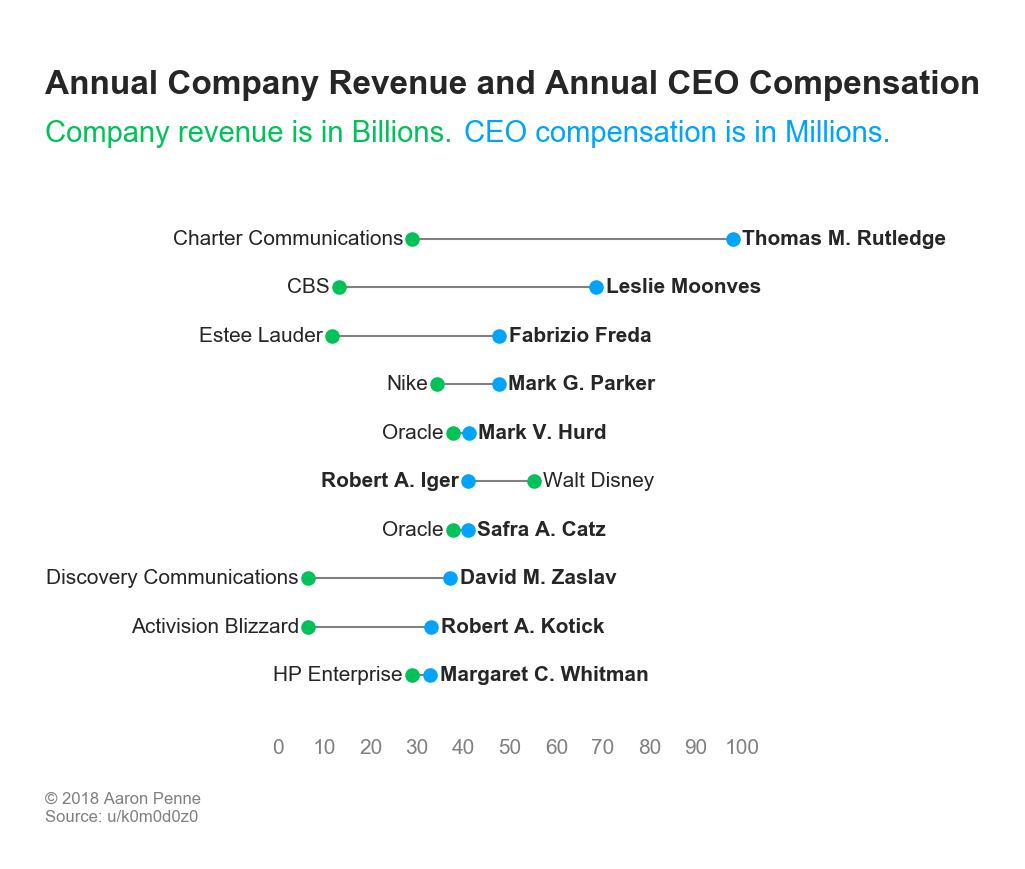
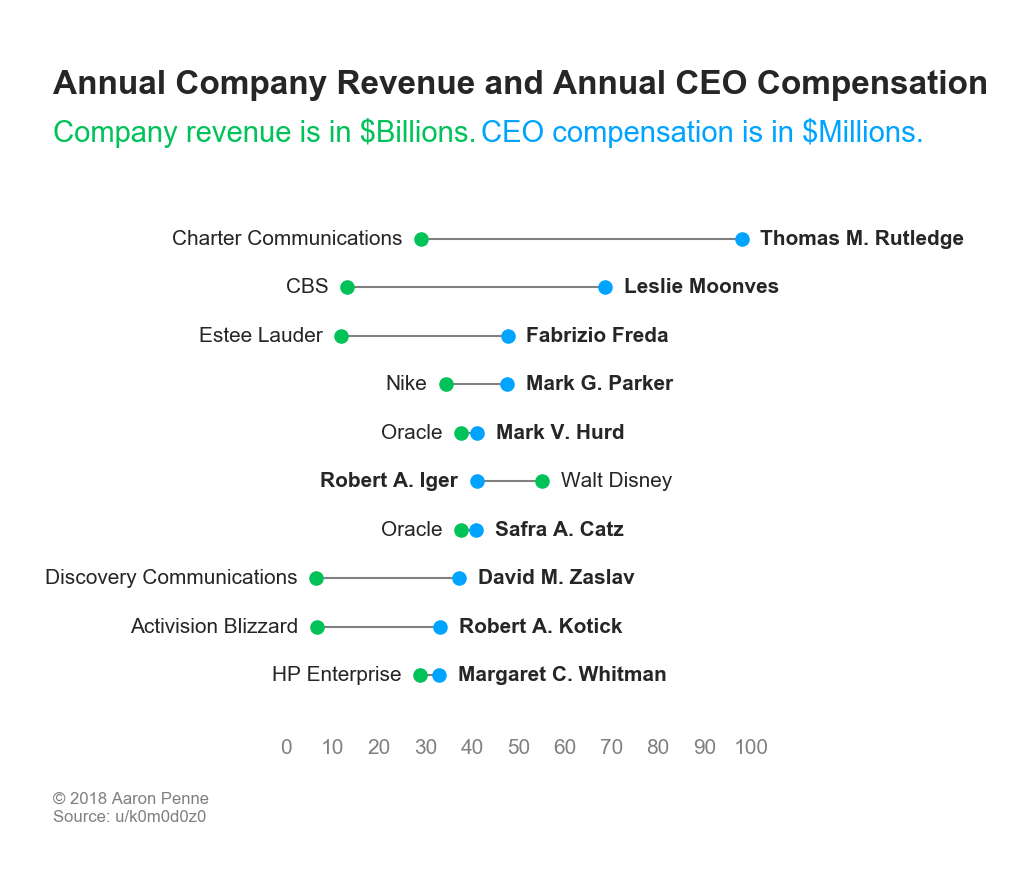
Changed label spacing.

diff --git a/ceo_compensation/dot_pairs_ceo_compensation.py b/ceo_compensation/dot_pairs_ceo_compensation.py
@@ -41,11 +41,11 @@ for i in df.index:
              linestyle='-',
              linewidth=1)
     if x[0] > x[1]:
-        plt.text(x[0]+2, y[0], df.loc[i, 'ceo'], horizontalalignment='left', verticalalignment='center', weight='bold')
-        plt.text(x[1]-2, y[1], df.loc[i, 'company'], horizontalalignment='right', verticalalignment='center')
+        plt.text(x[0]+4, y[0], df.loc[i, 'ceo'], horizontalalignment='left', verticalalignment='center', weight='bold')
+        plt.text(x[1]-4, y[1], df.loc[i, 'company'], horizontalalignment='right', verticalalignment='center')
     else:
-        plt.text(x[0]-2, y[0], df.loc[i, 'ceo'], horizontalalignment='right', verticalalignment='center', weight='bold')
-        plt.text(x[1]+2, y[1], df.loc[i, 'company'], horizontalalignment='left', verticalalignment='center')
+        plt.text(x[0]-4, y[0], df.loc[i, 'ceo'], horizontalalignment='right', verticalalignment='center', weight='bold')
+        plt.text(x[1]+4, y[1], df.loc[i, 'company'], horizontalalignment='left', verticalalignment='center')
     
 # Plot revenue
 x = df.loc[:,'annual_compensation']
@@ -80,11 +80,11 @@ plt.text(-50, 12, 'Annual Company Revenue and Annual CEO Compensation',
          horizontalalignment='left',
          size=16,
          weight='bold')
-plt.text(-50, 11, 'Company revenue is in Billions.',
+plt.text(-50, 11, 'Company revenue is in $Billions.',
          horizontalalignment='left',
          color='#01C258',
          size=14)
-plt.text(40, 11, 'CEO compensation is in Millions.',
+plt.text(42, 11, 'CEO compensation is in $Millions.',
          horizontalalignment='left',
          color='#00A4FF',
          size=14)
